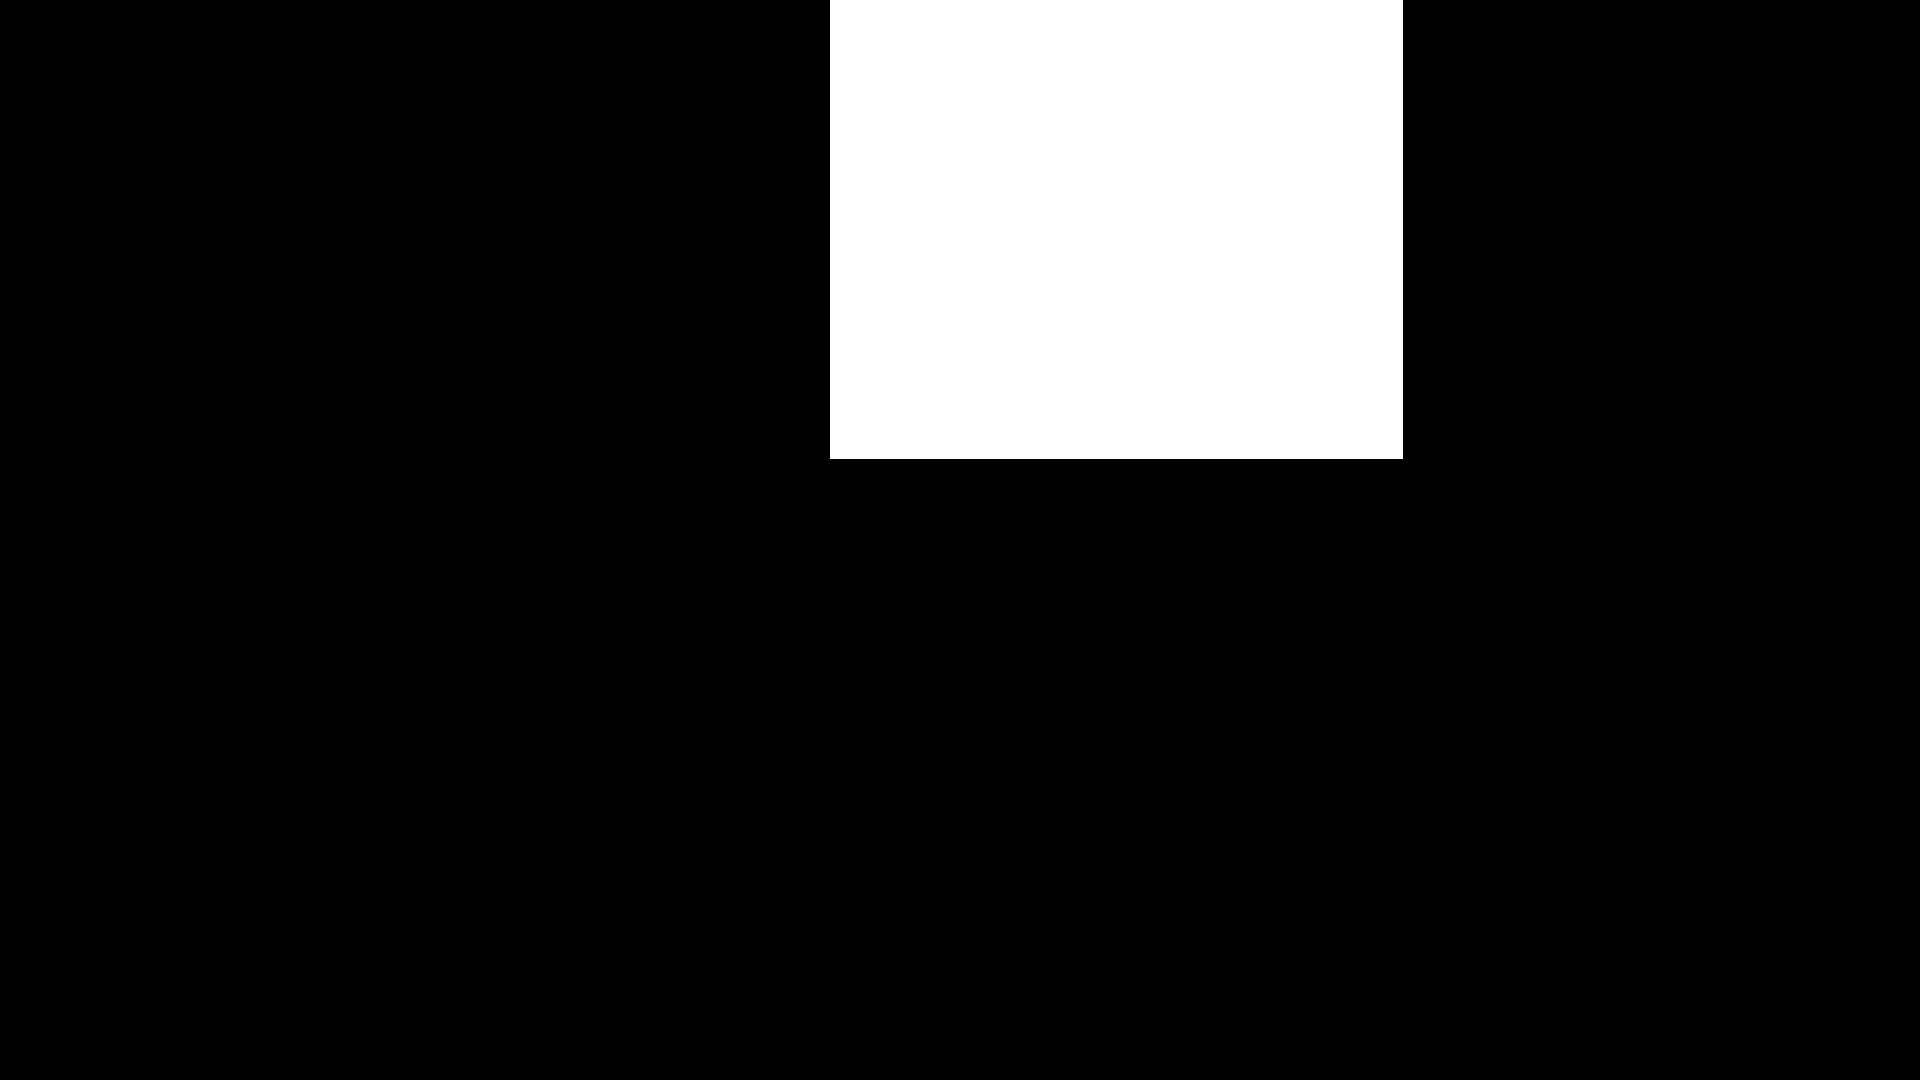
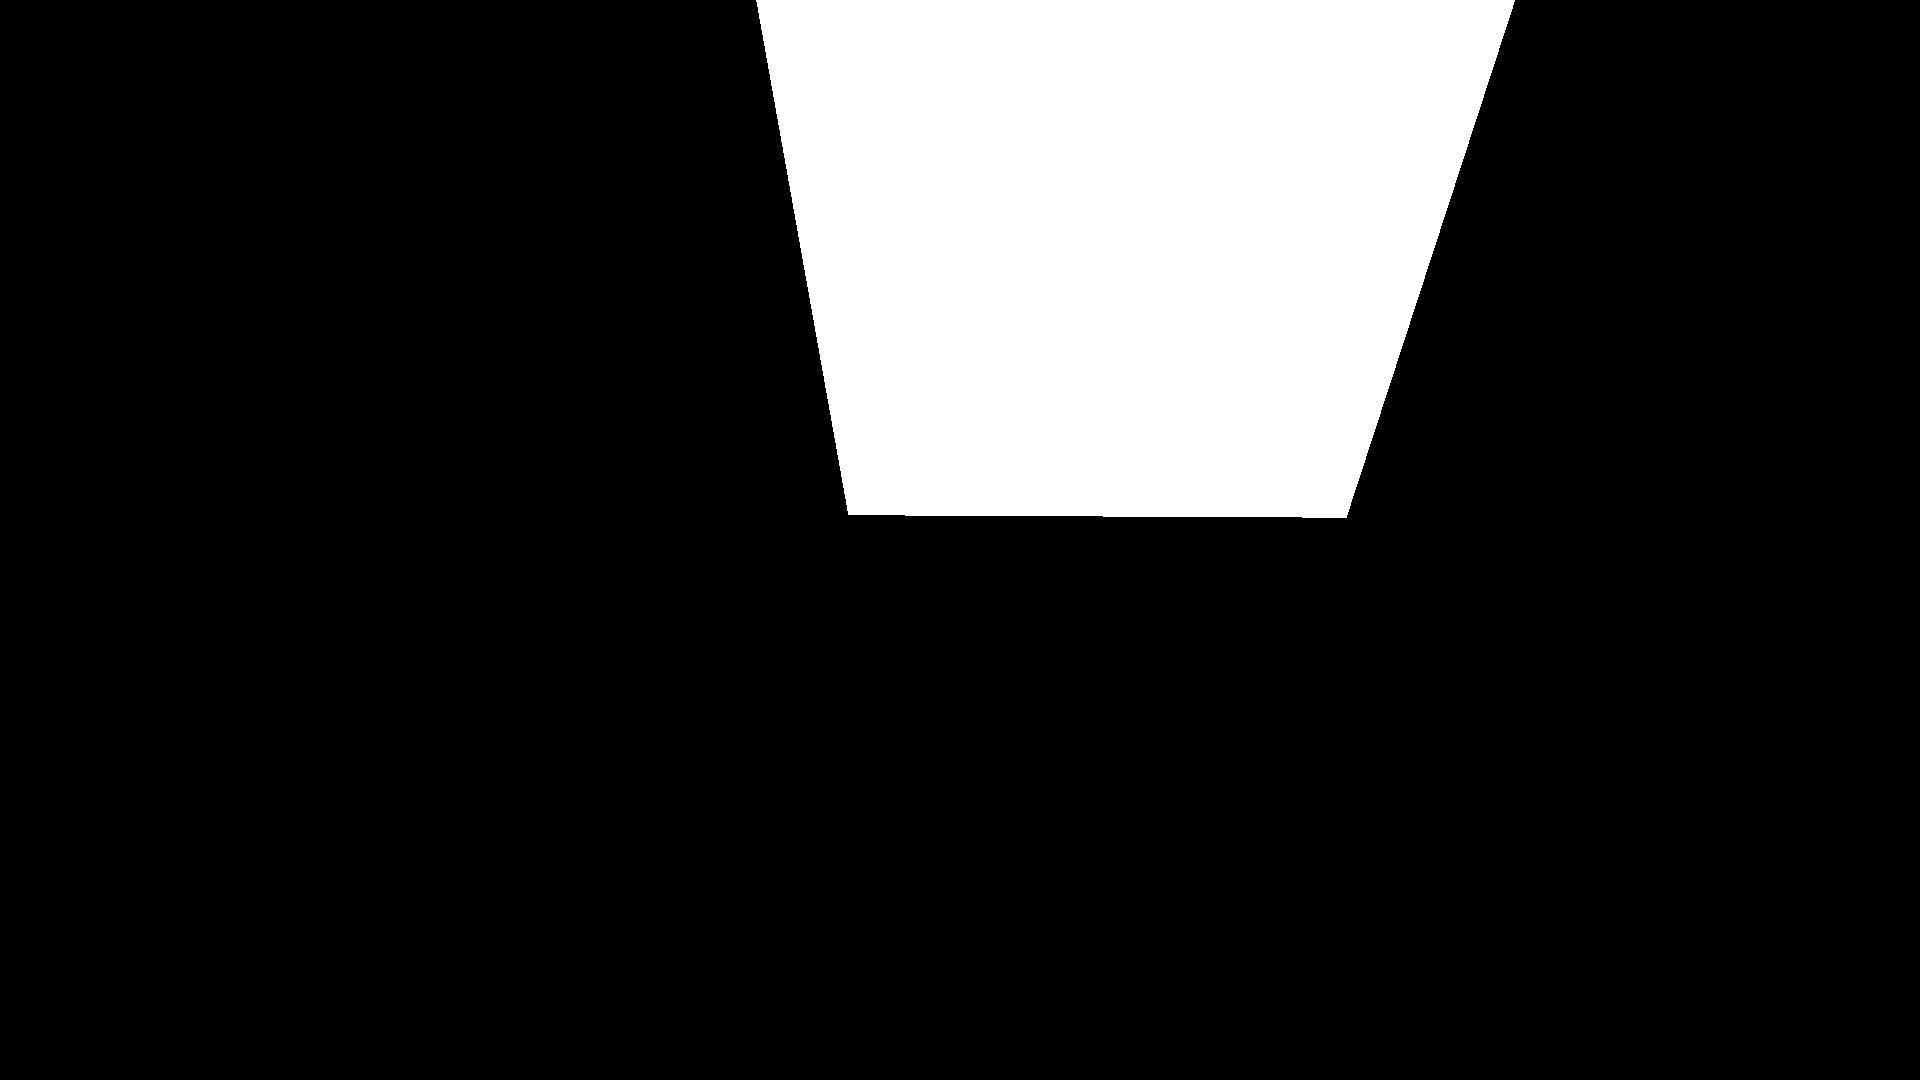
Mask and filtration changed and

Changed region(s): [[0.4375, 0.3361, 0.75, 0.4889], [0.7188, 0.0, 0.8125, 0.3056], [0.375, 0.0, 0.4375, 0.3361]]

diff --git a/Process.py b/Process.py
@@ -1,5 +1,6 @@
 import ctypes
 import os
+import time
 import tkinter
 
 import cv2
@@ -15,14 +16,27 @@ S_LOW = 89
 S_HIGH = 179
 V_LOW = 200
 V_HIGH = 255
+LIMIT_LEN = 200
+
+sum_frame = None
+ret = None
+frame = None
 
 
 def nothing(x):
     pass
 
+
 def start_pause():
     global IS_PAUSE
     IS_PAUSE = not IS_PAUSE
+
+
+def save_frame():
+    global sum_frame
+    filename = time.time()
+    cv2.imwrite("resources/" + str(filename) + ".jpg", sum_frame)
+
 
 def init():
     cv2.namedWindow(TOOLBAR_WIN_NAME)
@@ -62,22 +76,32 @@ def threshold(img):
 
 def interpolate(img):
     points = np.array(np.argwhere(img > 250))
-    y = points[:, 0]
-    x = points[:, 1]
-    if len(x) == 0:
-        return None
-    z = np.polyfit(x, y, 50)
-    f = np.poly1d(z)
+    f = None
+    if len(points) > LIMIT_LEN:
+        y = points[:, 0]
+        x = points[:, 1]
+        if len(x) == 0:
+            return None
+        z = np.polyfit(x, y, 50)
+        f = np.poly1d(z)
     return f
 
 
 def draw_line(img, f):
     result = img
-    h, w, c = result.shape
-    for i in range(800, 1400):
-        value = f(i)
-        if h > value > 0:
-            result[int(value), i] = [0, 0, 255]
+    if len(result.shape) == 2:
+        result = cv2.cvtColor(result, cv2.COLOR_GRAY2RGB)
+    try:
+        h, w, c = result.shape
+        for i in range(800, 1400):
+            value = f(i)
+            if h > value > 0:
+                result[int(value), i] = [0, 0, 255]
+    except Exception as exc:
+        print(type(exc))
+        print(exc.args)
+        print(exc)
+
     return result
 
 
@@ -89,35 +113,46 @@ def convert_image(image):
 
 def init_frame():
     try:
+        global frame
         ret, frame = cap.read()
-        height, width, channels = frame.shape
-        frame = cv2.flip(frame, 1)
-        cv2image = cv2.resize(frame, (int(screensize[0] * 0.8), int(screensize[1] * 0.8)))
-        imgtk = convert_image(cv2image)
-        lmain.imgtk = imgtk
-        lmain.configure(image=imgtk)
+        global sum_frame
+        if sum_frame is None:
+            sum_frame = frame
+        # frame = cv2.flip(frame, 1)
+        show_image(frame, lmain)
     except Exception as exc:
         print(type(exc))
         print(exc.args)
         print(exc)
     lmain.after(10, show_frame)
 
+
+def show_image(show_img, lmain):
+    cv2image = show_img  # cv2.resize(show_img, (int(screensize[0] * 0.8), int(screensize[1] * 0.8)))
+
+    cv2image = cv2.flip(cv2image, 0)
+    imgtk = convert_image(cv2image)
+    lmain.imgtk = imgtk
+    lmain.configure(image=imgtk)
+
+
 def show_frame():
     if IS_PAUSE:
         try:
+            global frame
             ret, frame = cap.read()
-            height, width, channels = frame.shape
-            frame = cv2.flip(frame, 1)
+            # frame = cv2.flip(frame, 1)
             img = frame
             img = cv2.bitwise_and(img, img, mask=bit_mask)
             img = threshold(img)
             interpolation = interpolate(img)
+            global sum_frame
+            show_img = sum_frame
             if interpolation != None:
-                frame = draw_line(frame, interpolation)
-            cv2image = cv2.resize(frame, (int(screensize[0] * 0.8), int(screensize[1] * 0.8)))
-            imgtk = convert_image(cv2image)
-            lmain.imgtk = imgtk
-            lmain.configure(image=imgtk)
+                # show_img = draw_line(frame, interpolation)
+                show_img = draw_line(sum_frame, interpolation)
+                # show_img = draw_line(img, interpolation)
+            show_image(show_img, lmain)
         except Exception as exc:
             print(type(exc))
             print(exc.args)
@@ -132,6 +167,7 @@ def init_menu(main_window):
     # menu.add_cascade(label="Action", menu=subMenu)
     # subMenu.add_command(label="Test", command=do_smth)
     menu.add_command(label=" > ", command=start_pause)
+    menu.add_command(label=" saveFrame ", command=save_frame)
 
 
 def do_smth():
@@ -169,6 +205,10 @@ screensize = user32.GetSystemMetrics(0), user32.GetSystemMetrics(1)
 
 init()
 bit_mask = cv2.imread("resources/ImageMask.jpg", 0)
+line_channel_paths = []
+channels = []
+for path in line_channel_paths:
+    channels.append(cv2.imread(path, 0))
 
 ######
 
